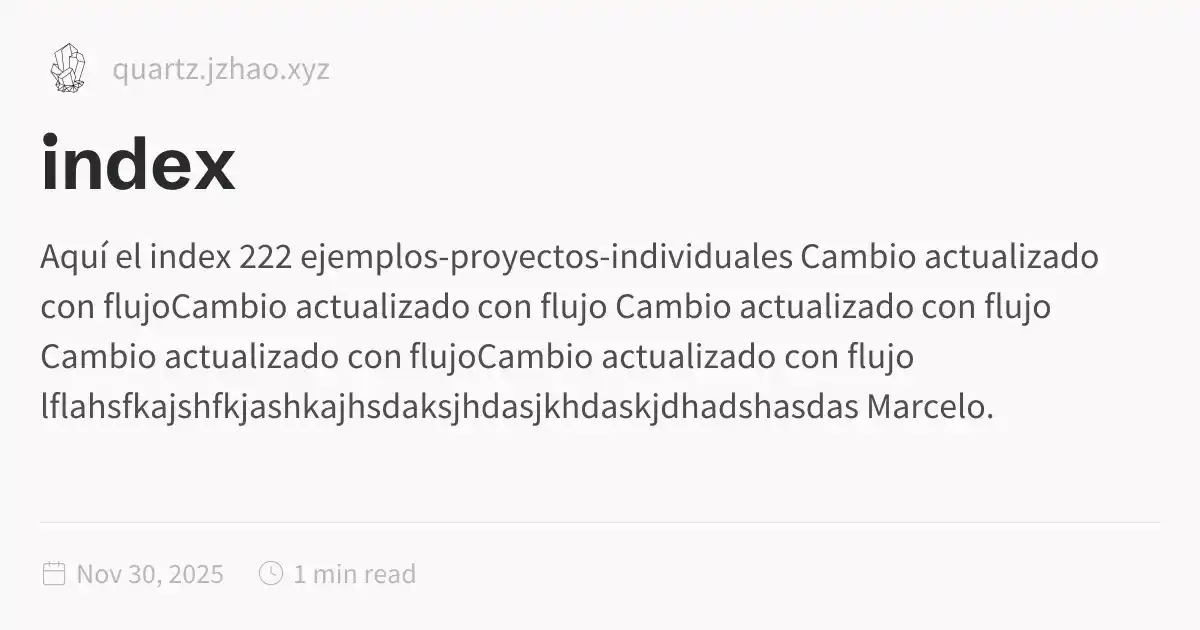
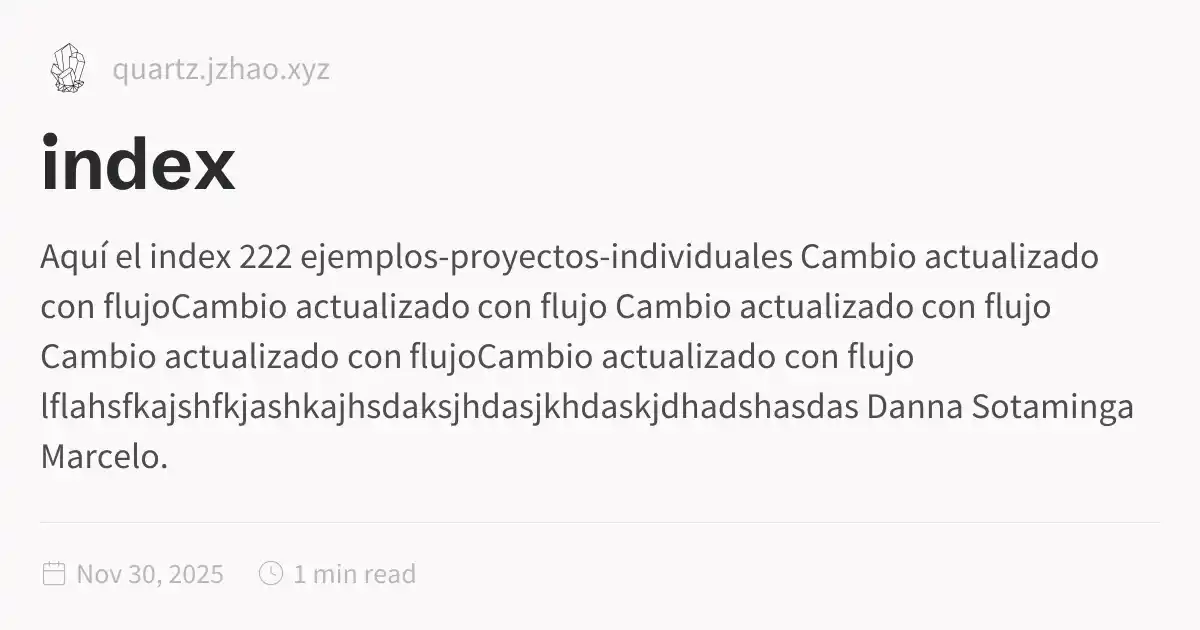
Deploy automático desde script local

Changed region(s): [[0.7092, 0.6333, 0.9558, 0.6635], [0.0308, 0.6937, 0.1542, 0.754]]

diff --git a/index.html b/index.html
@@ -1,5 +1,5 @@
 <!DOCTYPE html>
-<html lang="en" dir="ltr"><head><title>index</title><meta charset="utf-8"/><link rel="preconnect" href="https://fonts.googleapis.com"/><link rel="preconnect" href="https://fonts.gstatic.com"/><link rel="stylesheet" href="https://fonts.googleapis.com/css2?family=Schibsted Grotesk:wght@400;700&amp;family=Source Sans Pro:ital,wght@0,400;0,600;1,400;1,600&amp;family=IBM Plex Mono:wght@400;600&amp;display=swap"/><link rel="preconnect" href="https://cdnjs.cloudflare.com" crossorigin="anonymous"/><meta name="viewport" content="width=device-width, initial-scale=1.0"/><meta name="og:site_name" content="Quartz 4"/><meta property="og:title" content="index"/><meta property="og:type" content="website"/><meta name="twitter:card" content="summary_large_image"/><meta name="twitter:title" content="index"/><meta name="twitter:description" content="Aquí el index 222 ejemplos-proyectos-individuales Cambio actualizado con flujoCambio actualizado con flujo Cambio actualizado con flujo Cambio actualizado con flujoCambio actualizado con flujo lflahsfkajshfkjashkajhsdaksjhdasjkhdaskjdhadshasdas Marcelo."/><meta property="og:description" content="Aquí el index 222 ejemplos-proyectos-individuales Cambio actualizado con flujoCambio actualizado con flujo Cambio actualizado con flujo Cambio actualizado con flujoCambio actualizado con flujo lflahsfkajshfkjashkajhsdaksjhdasjkhdaskjdhadshasdas Marcelo."/><meta property="og:image:alt" content="Aquí el index 222 ejemplos-proyectos-individuales Cambio actualizado con flujoCambio actualizado con flujo Cambio actualizado con flujo Cambio actualizado con flujoCambio actualizado con flujo lflahsfkajshfkjashkajhsdaksjhdasjkhdaskjdhadshasdas Marcelo."/><meta property="twitter:domain" content="quartz.jzhao.xyz"/><meta property="og:url" content="https://quartz.jzhao.xyz/index"/><meta property="twitter:url" content="https://quartz.jzhao.xyz/index"/><link rel="icon" href="./static/icon.png"/><meta name="description" content="Aquí el index 222 ejemplos-proyectos-individuales Cambio actualizado con flujoCambio actualizado con flujo Cambio actualizado con flujo Cambio actualizado con flujoCambio actualizado con flujo lflahsfkajshfkjashkajhsdaksjhdasjkhdaskjdhadshasdas Marcelo."/><meta name="generator" content="Quartz"/><link href="./index.css" rel="stylesheet" type="text/css" data-persist="true"/><style>.expand-button {
+<html lang="en" dir="ltr"><head><title>index</title><meta charset="utf-8"/><link rel="preconnect" href="https://fonts.googleapis.com"/><link rel="preconnect" href="https://fonts.gstatic.com"/><link rel="stylesheet" href="https://fonts.googleapis.com/css2?family=Schibsted Grotesk:wght@400;700&amp;family=Source Sans Pro:ital,wght@0,400;0,600;1,400;1,600&amp;family=IBM Plex Mono:wght@400;600&amp;display=swap"/><link rel="preconnect" href="https://cdnjs.cloudflare.com" crossorigin="anonymous"/><meta name="viewport" content="width=device-width, initial-scale=1.0"/><meta name="og:site_name" content="Quartz 4"/><meta property="og:title" content="index"/><meta property="og:type" content="website"/><meta name="twitter:card" content="summary_large_image"/><meta name="twitter:title" content="index"/><meta name="twitter:description" content="Aquí el index 222 ejemplos-proyectos-individuales Cambio actualizado con flujoCambio actualizado con flujo Cambio actualizado con flujo Cambio actualizado con flujoCambio actualizado con flujo lflahsfkajshfkjashkajhsdaksjhdasjkhdaskjdhadshasdas Danna Sotaminga Marcelo."/><meta property="og:description" content="Aquí el index 222 ejemplos-proyectos-individuales Cambio actualizado con flujoCambio actualizado con flujo Cambio actualizado con flujo Cambio actualizado con flujoCambio actualizado con flujo lflahsfkajshfkjashkajhsdaksjhdasjkhdaskjdhadshasdas Danna Sotaminga Marcelo."/><meta property="og:image:alt" content="Aquí el index 222 ejemplos-proyectos-individuales Cambio actualizado con flujoCambio actualizado con flujo Cambio actualizado con flujo Cambio actualizado con flujoCambio actualizado con flujo lflahsfkajshfkjashkajhsdaksjhdasjkhdaskjdhadshasdas Danna Sotaminga Marcelo."/><meta property="twitter:domain" content="quartz.jzhao.xyz"/><meta property="og:url" content="https://quartz.jzhao.xyz/index"/><meta property="twitter:url" content="https://quartz.jzhao.xyz/index"/><link rel="icon" href="./static/icon.png"/><meta name="description" content="Aquí el index 222 ejemplos-proyectos-individuales Cambio actualizado con flujoCambio actualizado con flujo Cambio actualizado con flujo Cambio actualizado con flujoCambio actualizado con flujo lflahsfkajshfkjashkajhsdaksjhdasjkhdaskjdhadshasdas Danna Sotaminga Marcelo."/><meta name="generator" content="Quartz"/><link href="./index.css" rel="stylesheet" type="text/css" data-persist="true"/><style>.expand-button {
   position: absolute;
   display: flex;
   float: right;
@@ -116,12 +116,13 @@ pre:hover > .expand-button {
   padding: 0 12px;
   font-size: 14px;
 }
[2 lines of base64/hex data omitted]
 <a href="./ejemplos-proyectos-individuales" class="internal" data-slug="ejemplos-proyectos-individuales">ejemplos-proyectos-individuales</a>
 Cambio actualizado con flujoCambio actualizado con flujo
 Cambio actualizado con flujo
 Cambio actualizado con flujoCambio actualizado con flujo
 lflahsfkajshfkjashkajhsdaksjhdasjkhdaskjdhadshasdas</p>
+<p>Danna Sotaminga</p>
 <p>Marcelo</p></article><hr/><div class="page-footer"></div></div><div class="right sidebar"><div class="graph"><h3>Graph View</h3><div class="graph-outer"><div class="graph-container" data-cfg="{&quot;drag&quot;:true,&quot;zoom&quot;:true,&quot;depth&quot;:1,&quot;scale&quot;:1.1,&quot;repelForce&quot;:0.5,&quot;centerForce&quot;:0.3,&quot;linkDistance&quot;:30,&quot;fontSize&quot;:0.6,&quot;opacityScale&quot;:1,&quot;showTags&quot;:true,&quot;removeTags&quot;:[],&quot;focusOnHover&quot;:false,&quot;enableRadial&quot;:false}"></div><button class="global-graph-icon" aria-label="Global Graph"><svg version="1.1" xmlns="http://www.w3.org/2000/svg" xmlns:xlink="http://www.w3.org/1999/xlink" x="0px" y="0px" viewBox="0 0 55 55" fill="currentColor" xml:space="preserve"><path d="M49,0c-3.309,0-6,2.691-6,6c0,1.035,0.263,2.009,0.726,2.86l-9.829,9.829C32.542,17.634,30.846,17,29,17
                 s-3.542,0.634-4.898,1.688l-7.669-7.669C16.785,10.424,17,9.74,17,9c0-2.206-1.794-4-4-4S9,6.794,9,9s1.794,4,4,4
                 c0.74,0,1.424-0.215,2.019-0.567l7.669,7.669C21.634,21.458,21,23.154,21,25s0.634,3.542,1.688,4.897L10.024,42.562
